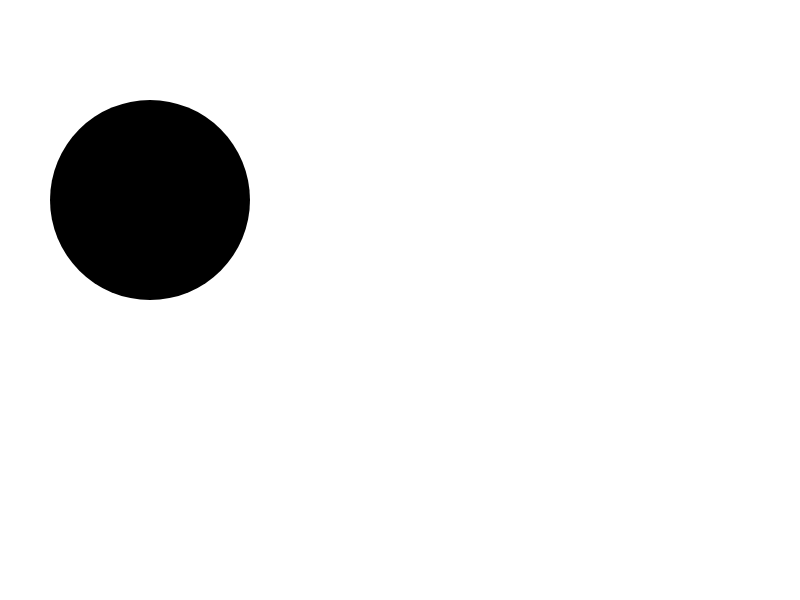
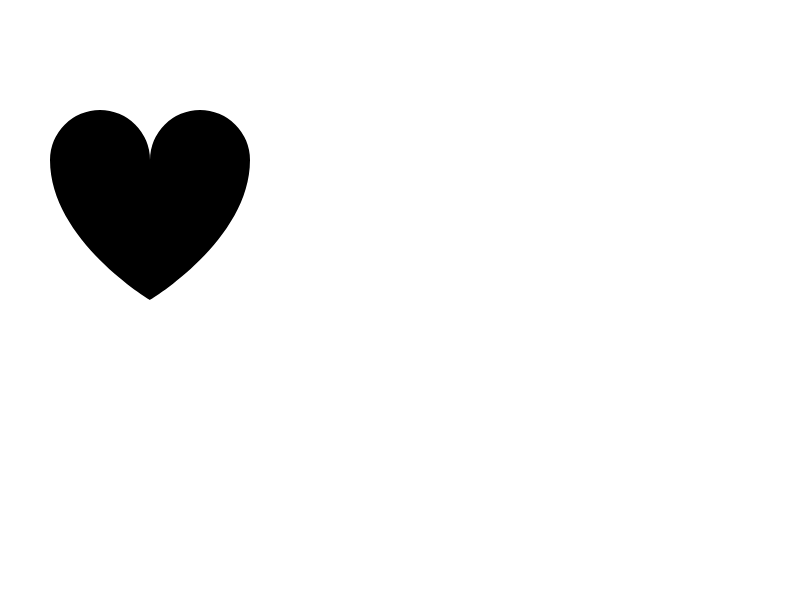
Fix inverted backdrop mask problem for non-flipped framebuffer
On non-flipped framebuffer devices (e.g. Mac in some cases),
the mask image was previously being wrapped into an SkImage
with the incorrect value for flip_texture. This is now
correct, which fixes a bug with masking of backdrop-filter.
I also improved the backdrop-with-mask WPT test to catch this
problem.

Bug: 974857
Commit-Queue: Mason Freed <masonfreed@chromium.org>
Cr-Commit-Position: refs/heads/master@{#689253}

Changed region(s): [[0.0625, 0.15, 0.3125, 0.51]]

diff --git a/web_tests/css3/filters/backdrop-filter-plus-mask.html b/web_tests/css3/filters/backdrop-filter-plus-mask.html
@@ -13,6 +13,16 @@
 
 <div></div>
 
+<svg>
+  <clipPath id="heart" clipPathUnits="objectBoundingBox">
+    <path d="M0.5,1
+      C 0.5,1,0,0.7,0,0.3
+      A 0.25,0.25,1,1,1,0.5,0.3
+      A 0.25,0.25,1,1,1,1,0.3
+      C 1,0.7,0.5,1,0.5,1 Z" />
+  </clipPath>
+</svg>
+
 <style>
 div {
   position: absolute;
@@ -21,6 +31,6 @@ div {
   width: 200px;
   height: 200px;
   backdrop-filter: invert(1);
-  clip-path: circle(100px at center);
+  clip-path: url(#heart);
 }
 </style>
